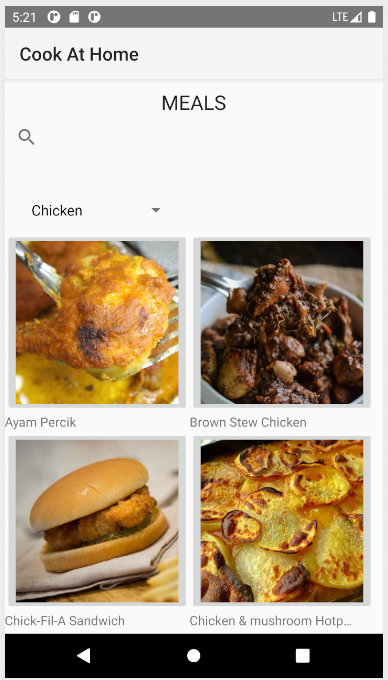
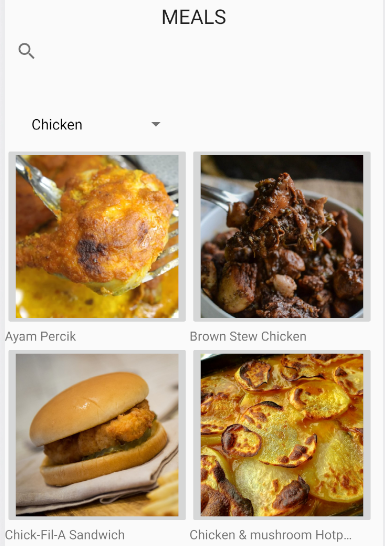
resized image

diff --git a/src/Components/Project.module.css b/src/Components/Project.module.css
@@ -21,7 +21,7 @@
   height: 100%;
   width: 100%;
   background-repeat: no-repeat;
-  /* background-position: center; */
+  background-position: center;
   background-size: cover;
   transition: 0.7s;
   position: absolute;
